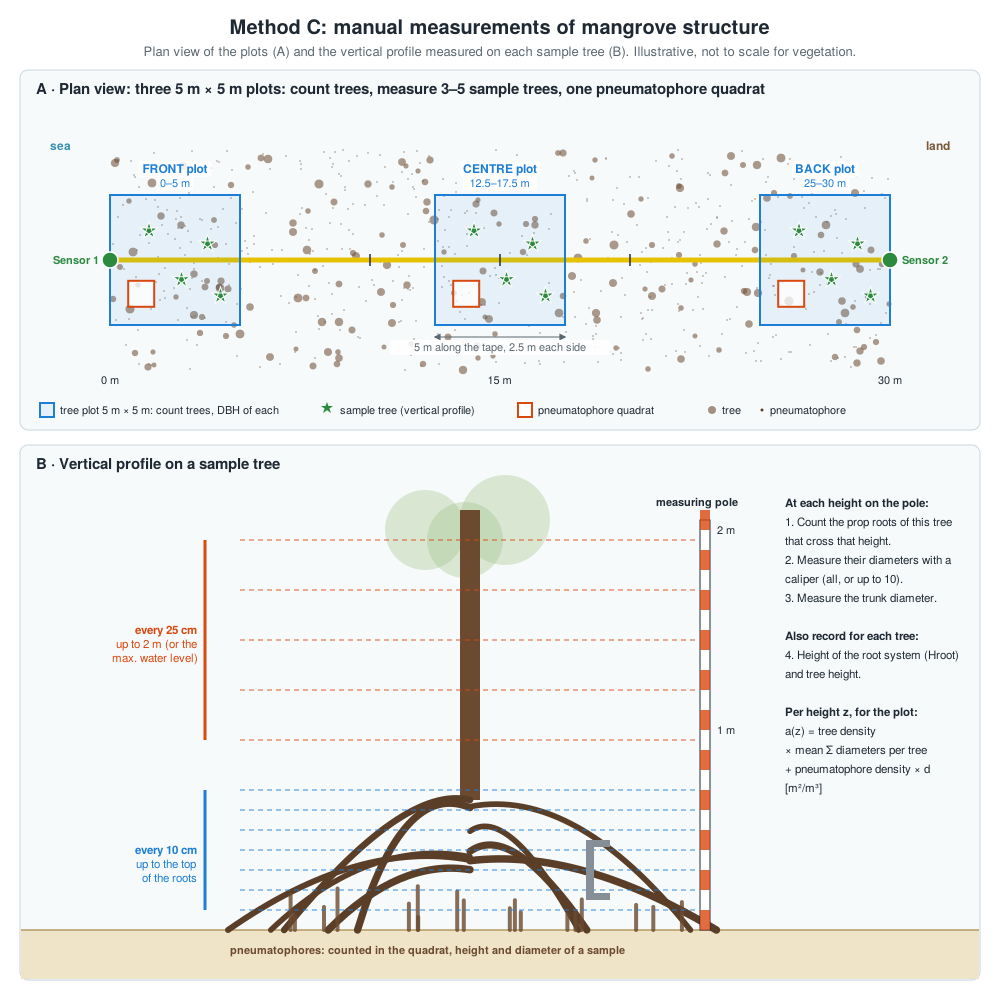
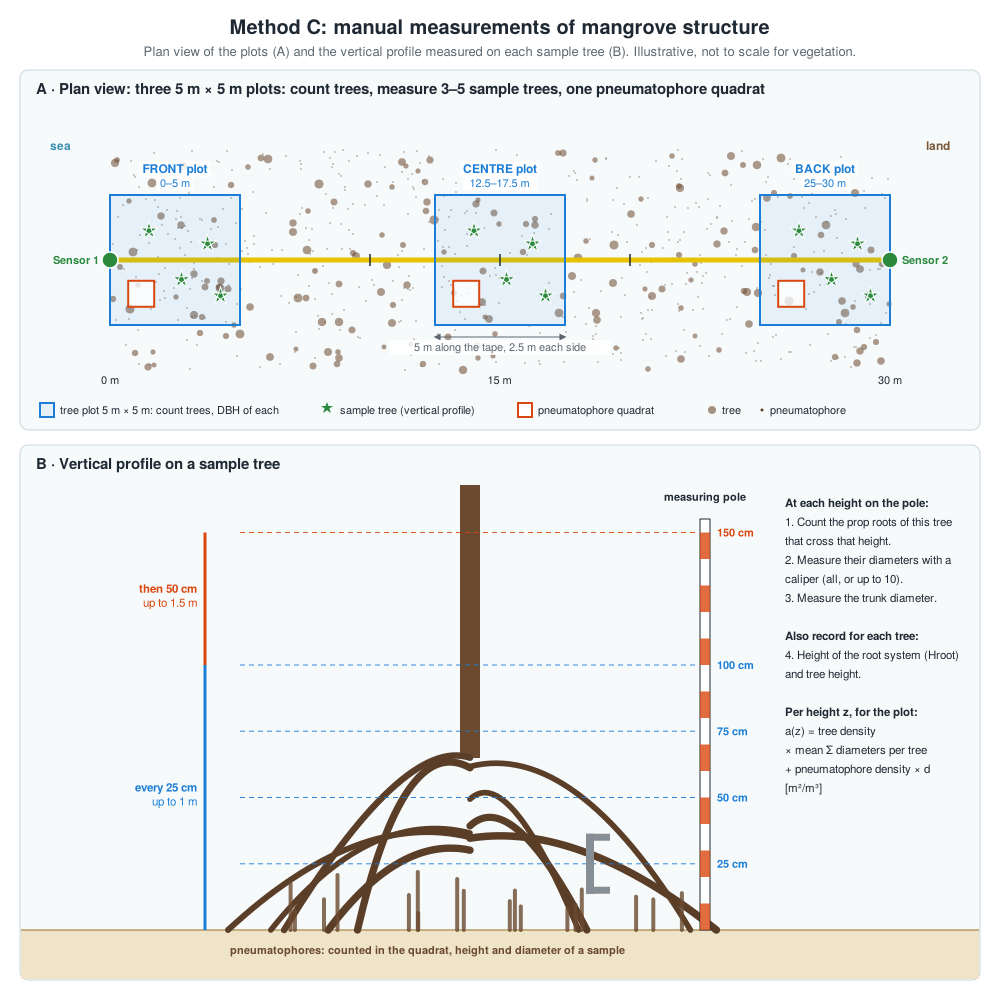
mangroves

diff --git a/docs/mangroves.md b/docs/mangroves.md
@@ -160,9 +160,9 @@ Use this method where the forest is so dense that neither photogrammetry nor pho
 
 ```{figure} _static/mangrove_manual_measurements.svg
 :width: 100%
-:alt: Plan view of the three 5 m by 5 m plots with sample trees and a pneumatophore quadrat, and side view of a sample tree with measuring heights every 10 cm up to the top of the roots and every 25 cm up to 2 m
+:alt: Plan view of the three 5 m by 5 m plots with sample trees and a pneumatophore quadrat, and side view of a sample tree with measuring heights at 25, 50, 75, 100 and 150 cm
 
-Manual measurements. (A) Three 5 m × 5 m plots along the tape (front, centre, back): count all trees, measure 3–5 sample trees in detail, and count pneumatophores in one quadrat. (B) On each sample tree, prop roots and trunk are counted and measured at fixed heights along a measuring pole.
+Manual measurements. (A) Three 5 m × 5 m plots along the tape (front, centre, back): count all trees, measure 3–5 sample trees in detail, and count pneumatophores in one quadrat. (B) On each sample tree, prop roots and trunk are counted and measured at 25, 50, 75, 100 and 150 cm along a measuring pole.
 ```
 
 ### Where to measure
@@ -181,7 +181,7 @@ Manual measurements. (A) Three 5 m × 5 m plots along the tape (front, centre, b
 Choose **3–5 sample trees** per plot that cover the range of sizes present. For each tree:
 
 1. Place a **measuring pole** (marked every 10 cm) vertically next to the trunk.
-2. Measuring heights: **every 10 cm** from 10 cm up to the top of the root system, then **every 25 cm** up to **2 m**, or up to the highest water level expected in the model scenarios if this is higher.
+2. Measuring heights: **every 25 cm up to 1 m** (25, 50, 75 and 100 cm), then at **150 cm**. This gives five heights, up to 1.5 m above the ground.
 3. At each height:
    - **count** the prop roots of this tree that cross that height;
    - **measure** their diameters with a caliper (all of them, or up to 10 if there are more);
@@ -196,15 +196,15 @@ For each plot and height z:
 
 a(z) = tree density × mean (sum of diameters per tree at z) + pneumatophore density × pneumatophore diameter (only below the pneumatophore height)
 
-with the density in trees (or pneumatophores) per m² and diameters in m, so that a(z) is in m²/m³ (m⁻¹). Example for one plot with 20 trees in 25 m² (0.8 trees/m²) and 60 pneumatophores/m², about 25 cm high and 1.2 cm wide (illustrative numbers):
+with the density in trees (or pneumatophores) per m² and diameters in m, so that a(z) is in m²/m³ (m⁻¹). Example for one plot with 20 trees in 25 m² (0.8 trees/m²) and 60 pneumatophores/m², about 30 cm high and 1.2 cm wide (illustrative numbers):
 
 | Height | Per tree: roots × diameter (+ trunk) | Sum of diameters per tree | Trees: 0.8 × sum | Pneumatophores: 60 × 0.012 | a(z) |
 | --- | --- | --- | --- | --- | --- |
-| 10 cm | 12 × 2.5 cm | 0.30 m | 0.24 | 0.72 | 0.96 m⁻¹ |
-| 30 cm | 10 × 3.0 cm | 0.30 m | 0.24 | – | 0.24 m⁻¹ |
-| 60 cm | 6 × 3.5 cm | 0.21 m | 0.17 | – | 0.17 m⁻¹ |
+| 25 cm | 12 × 2.5 cm | 0.30 m | 0.24 | 0.72 | 0.96 m⁻¹ |
+| 50 cm | 9 × 3.0 cm | 0.27 m | 0.22 | – | 0.22 m⁻¹ |
+| 75 cm | 2 × 3.5 cm + trunk 12 cm | 0.19 m | 0.15 | – | 0.15 m⁻¹ |
 | 100 cm | trunk 12 cm | 0.12 m | 0.10 | – | 0.10 m⁻¹ |
-| 200 cm | trunk 10 cm | 0.10 m | 0.08 | – | 0.08 m⁻¹ |
+| 150 cm | trunk 11 cm | 0.11 m | 0.09 | – | 0.09 m⁻¹ |
 
 The profiles of the front, centre and back plots are then grouped into the vertical layers used by the model.
 
@@ -251,7 +251,7 @@ Print this section so that nothing is forgotten.
 | ☐ | **Data:** tree count and species in each plot; DBH of each tree (and measurement height if not 1.3 m) |
 | ☐ | **Data:** pneumatophore count in one quadrat per plot (and quadrat size); height and diameter (base, mid-height) of up to 20 |
 | ☐ | 3–5 sample trees per plot, covering the range of sizes |
-| ☐ | **Data per sample tree, at every 10 cm up to the top of the roots and every 25 cm up to 2 m:** number of roots crossing, their diameters, trunk diameter |
+| ☐ | **Data per sample tree, at 25, 50, 75, 100 and 150 cm:** number of roots crossing, their diameters, trunk diameter |
 | ☐ | **Data per sample tree:** Hroot and tree height |
 | ☐ | Photos of each plot and sample tree, with scale |
 
